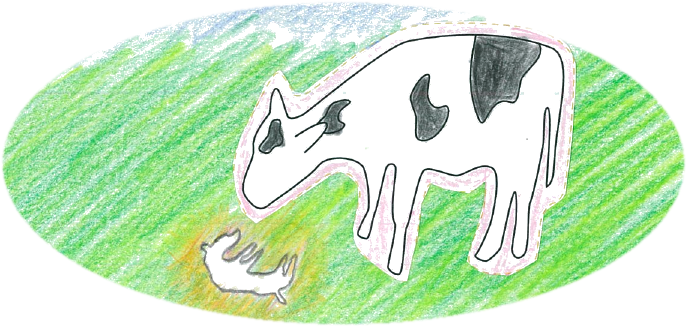
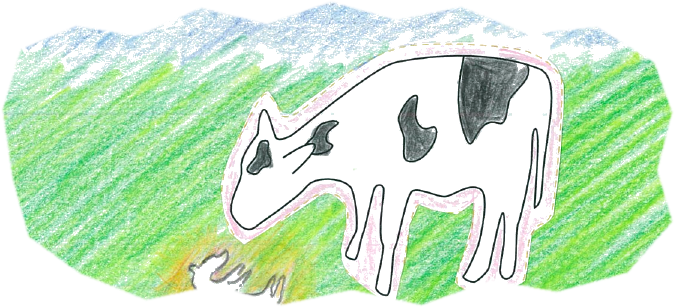
Use organic grass edge for cow fragment

diff --git a/index.html b/index.html
@@ -5,8 +5,8 @@
     <meta name="viewport" content="width=device-width, initial-scale=1" />
     <meta name="description" content="作品の中の小さな要素から、それぞれの平和をひらく。" />
     <title>平和とは — 無限の画布</title>
-    <link rel="stylesheet" href="styles.css?v=20261129-04" />
-    <script src="script.js?v=20261129-04" defer></script>
+    <link rel="stylesheet" href="styles.css?v=20261129-05" />
+    <script src="script.js?v=20261129-05" defer></script>
   </head>
   <body>
     <main
@@ -78,7 +78,7 @@
         <button class="fragment fragment--thirtyone" type="button" data-index="30" aria-label="人も動物も自由にを開く"><img src="assets/animal-elements/animal-01.png?v=3" alt="跳ぶ犬の切り抜き" draggable="false" /><span class="fragment__prompt" aria-hidden="true">平和とは？</span></button>
         <button class="fragment fragment--thirtytwo" type="button" data-index="31" aria-label="赤い実を開く"><img src="assets/animal-elements/animal-02.png?v=2" alt="赤い実を持つ猿の切り抜き" draggable="false" /><span class="fragment__prompt" aria-hidden="true">平和とは？</span></button>
         <button class="fragment fragment--thirtythree" type="button" data-index="32" aria-label="どうぶつえんを開く"><img src="assets/animal-elements/animal-03.png?v=3" alt="ぞうの切り抜き" draggable="false" /><span class="fragment__prompt" aria-hidden="true">平和とは？</span></button>
-        <button class="fragment fragment--thirtyfour" type="button" data-index="33" aria-label="あたらしいいのちを開く"><img src="assets/animal-elements/animal-04.png?v=3" alt="乳牛と草地の切り抜き" draggable="false" /><span class="fragment__prompt" aria-hidden="true">平和とは？</span></button>
+        <button class="fragment fragment--thirtyfour" type="button" data-index="33" aria-label="あたらしいいのちを開く"><img src="assets/animal-elements/animal-04.png?v=4" alt="乳牛と草地の切り抜き" draggable="false" /><span class="fragment__prompt" aria-hidden="true">平和とは？</span></button>
       </div>
     </main>
 
